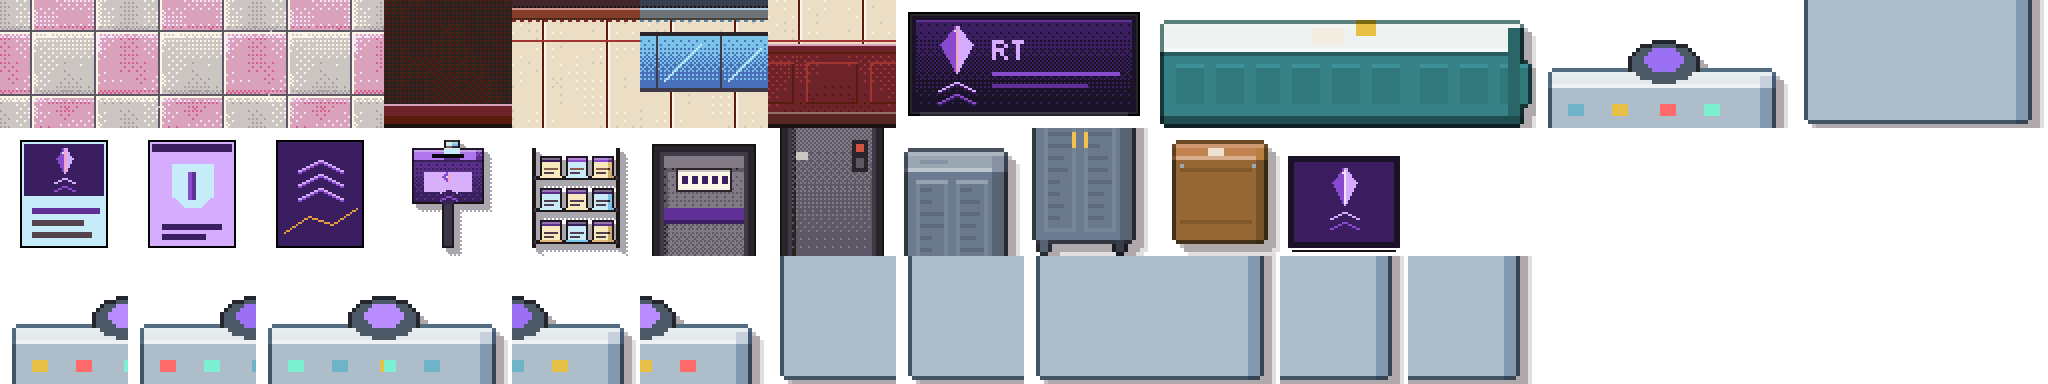
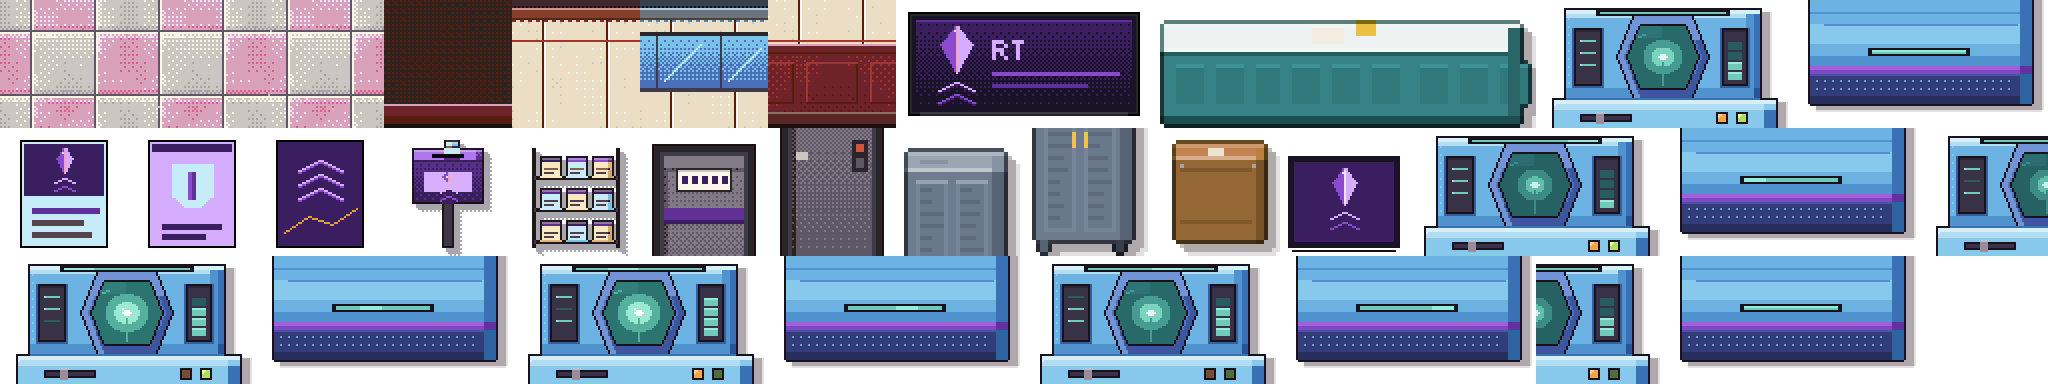
Kilumen: original heal-centre crystal polisher (7476-7479) redrawn at v2 quality + lively status lights (6 frames, staggered blinks, chase, core pulse) + teal night glow; collision unchanged

diff --git a/kilumen/src/overworld/ixlight.js b/kilumen/src/overworld/ixlight.js
@@ -33,7 +33,8 @@ const B4 = [[0, 8, 2, 10], [12, 4, 14, 6], [3, 11, 1, 9], [15, 7, 13, 5]];
 const SRC = [ // [name test, colour, radius px, glow strength]
   [/tv_back|(^|_)tv($|_)|crt/, [70, 146, 206], 112, 0.9], [/stove|fireplace|forge|oven/, [252, 196, 96], 100, 0.45],
   [/lamp|lantern|candle|side3|radio|heal_machine|crystal_display|specimen|server/, [252, 214, 140], 110, 0.4],
-  [/heal_machine|counter_heal|terminal|(^|_)pc($|_)|desk_pc|crystal_polisher|timetable|club_dj_desk|club_stage_back|club_counter_case|cooler/, [150, 210, 236], 96, 0.35],
+  [/crystal_polisher/, [112, 202, 184], 104, 0.45], // old crystal polisher (old_machine_v1): teal core + status lamps glow at night
+  [/heal_machine|counter_heal|terminal|(^|_)pc($|_)|desk_pc|timetable|club_dj_desk|club_stage_back|club_counter_case|cooler/, [150, 210, 236], 96, 0.35],
   [/^window|_window|window_|wall_upper_win/, [168, 196, 248], 84, 0.34, true]]; // v0.2.41: windows = cool moonlight (Gary: pools read warm), floor stays dim
 export function isPublicInterior(name) { return PUBLIC_RE.test(name || ''); }
 function buildShade(v, phase, indoorFn) {

diff --git a/kilumen/tools/furniture_v2/old_machine_v1.py b/kilumen/tools/furniture_v2/old_machine_v1.py
@@ -1,0 +1,183 @@
+"""Old crystal polisher v1 (Gary, Oct 29 2026): the ORIGINAL heal-centre machine (i_crystal_polisher, ids 7476/7477 top,
+7478/7479 bottom, interiors_new i_brand_v3.png cells 12..15; heal_* maps at (5,1)) redrawn at the furniture-v2 level - same
+silhouette and design (stepped top unit, hex crystal window, side screens, slider, orange/green lamps, slot, violet trim
+stripe, navy plinth), v2 outline, stepped shading (no dither), v2 palette and drop shadow - with lively lights:
+6 frames (frame 0 = the tile's own cells, 1..5 = free sheet cells) driven by a long non-uniform sequence: staggered
+orange/green blinks, an occasional teal chase along the top bar and the slot, a level meter in the right screen and a soft
+pulse in the crystal core. Night glow comes from ixlight's crystal_polisher light source. Collision is NOT touched.
+Run after build_v3_hybrid.py:  python3 tools/furniture_v2/old_machine_v1.py
+"""
+import json, os
+from PIL import Image
+
+ROOT = os.path.dirname(os.path.dirname(os.path.dirname(os.path.abspath(__file__))))
+OW = os.path.join(ROOT, 'art/world/overworld')
+O = (24, 18, 30, 255)
+SH, SH2 = (40, 24, 30, 95), (40, 24, 30, 35)
+T = (0, 0, 0, 0)
+# v2 blue body ramp (old hues, stepped)
+B = dict(hi=(214, 240, 250, 255), l0=(176, 222, 244, 255), l1=(136, 200, 236, 255), m=(108, 178, 226, 255),
+         d1=(80, 146, 206, 255), d2=(58, 112, 180, 255), d3=(44, 82, 146, 255))
+N = dict(n0=(70, 86, 150, 255), n1=(50, 62, 122, 255), n2=(38, 46, 96, 255), dot=(112, 160, 216, 255), side=(46, 98, 160, 255))
+HEX = dict(f0=(112, 148, 214, 255), f1=(82, 116, 190, 255), f2=(60, 86, 158, 255))
+SCR = dict(bg=(56, 50, 70, 255), bg2=(44, 38, 56, 255), fr=(52, 96, 160, 255))
+TEAL = dict(on=(150, 236, 214, 255), mid=(112, 202, 184, 255), off=(62, 132, 128, 255), dk=(40, 92, 96, 255))
+CORE = [  # crystal core pulse levels: (glass, ring, inner, centre)
+    ((38, 98, 100, 255), (60, 140, 132, 255), (100, 190, 172, 255), (200, 240, 236, 255)),
+    ((40, 106, 106, 255), (70, 156, 144, 255), (124, 212, 190, 255), (226, 250, 246, 255)),
+    ((44, 116, 112, 255), (86, 176, 158, 255), (156, 232, 210, 255), (250, 255, 255, 255))]
+ORA = ((236, 168, 72, 255), (255, 214, 130, 255), (120, 76, 44, 255))   # on, glint, off
+GRN = ((176, 220, 104, 255), (226, 250, 170, 255), (82, 108, 58, 255))
+VIO = ((160, 96, 222, 255), (128, 72, 196, 255), (96, 50, 160, 255))
+
+# frame states: core level, orange, green, chase segment (-1 none), meter level 0..4, left-screen line mask
+FR = [dict(core=1, o=1, g=1, ch=-1, me=2, ln=(1, 1, 1)),
+      dict(core=2, o=0, g=1, ch=0, me=3, ln=(1, 1, 0)),
+      dict(core=2, o=1, g=0, ch=1, me=4, ln=(1, 0, 1)),
+      dict(core=1, o=0, g=0, ch=2, me=3, ln=(0, 1, 1)),
+      dict(core=0, o=1, g=1, ch=3, me=1, ln=(1, 1, 1)),
+      dict(core=0, o=1, g=0, ch=-1, me=2, ln=(1, 0, 1))]
+# ~3.4 s loop at 140 ms: mostly calm blinking with uneven gaps, one chase pass (1-2-3) per loop, core breathes 0->1->2->1->0
+SEQ = [0, 0, 5, 5, 0, 4, 4, 0, 5, 0, 0, 4, 0, 1, 2, 3, 2, 1, 0, 5, 0, 4, 0, 0]
+FRAME_MS = 140
+
+
+class Cv:
+    def __init__(s, w=128, h=128): s.im = Image.new('RGBA', (w, h), T); s.px = s.im.load(); s.w, s.h = w, h
+    def p(s, x, y, c):
+        if 0 <= x < s.w and 0 <= y < s.h: s.px[x, y] = c
+    def rect(s, x0, y0, x1, y1, c):
+        for y in range(y0, y1 + 1):
+            for x in range(x0, x1 + 1): s.p(x, y, c)
+
+
+def shadow(cv, boxes, dx=4, dy=2):
+    m = set()
+    for x0, y0, x1, y1 in boxes:
+        for y in range(y0 + dy, y1 + dy + 1):
+            for x in range(x0 + dx, x1 + dx + 1): m.add((x, y))
+    for (x, y) in m: cv.p(x, y, SH)
+    for (x, y) in m:
+        for nx, ny in ((x + 1, y), (x, y + 1)):
+            if (nx, ny) not in m: cv.p(nx, ny, SH2)
+
+
+def frame_box(cv, x0, y0, x1, y1):
+    for x in range(x0, x1 + 1): cv.p(x, y0, O); cv.p(x, y1, O)
+    for y in range(y0, y1 + 1): cv.p(x0, y, O); cv.p(x1, y, O)
+
+
+def hex_rows(cx, cy, hw, hh, cut):
+    """Flat-top hexagon rows: dict y -> half width (pointy left/right)."""
+    r = {}
+    for y in range(cy - hh, cy + hh + 1):
+        d = abs(y - cy); r[y] = hw - max(0, d - (hh - cut)) if False else hw - round(d * cut / hh)
+    return r
+
+
+def machine(f):
+    s = FR[f]; cv = Cv()
+    shadow(cv, [(14, 4, 112, 49), (8, 49, 120, 116)])
+    # ---- top unit x14..112 y4..49
+    cv.rect(15, 5, 111, 49, B['m'])
+    cv.rect(15, 5, 111, 6, B['hi']); cv.rect(15, 7, 111, 8, B['l0']); cv.rect(15, 44, 111, 49, B['d1'])
+    cv.rect(105, 7, 111, 49, B['d1']); cv.rect(109, 7, 111, 49, B['d2']); cv.rect(109, 44, 111, 49, B['d3'])
+    for y in range(9, 44, 4): cv.p(16, y, B['l1'])
+    # top teal bar (chase)
+    cv.rect(30, 5, 96, 7, O); cv.rect(32, 6, 94, 6, TEAL['mid'])
+    if s['ch'] >= 0:
+        a = 32 + s['ch'] * 16; cv.rect(a, 6, a + 14, 6, TEAL['on'])
+    # side screens
+    cv.rect(18, 14, 33, 43, SCR['fr']); cv.rect(20, 15, 31, 41, SCR['bg']); cv.rect(20, 15, 31, 15, SCR['bg2'])
+    frame_box(cv, 19, 14, 32, 42)
+    for k, y in enumerate((20, 26, 32)):
+        cv.rect(22, y, 29, y, TEAL['mid'] if s['ln'][k] else TEAL['dk'])
+        if s['ln'][k]: cv.p(22, y, TEAL['on'])
+    cv.rect(92, 14, 106, 43, SCR['fr']); cv.rect(94, 15, 104, 41, SCR['bg']); cv.rect(94, 15, 104, 15, SCR['bg2'])
+    frame_box(cv, 93, 14, 105, 42)
+    for k in range(4):  # meter bars bottom-up
+        y = 39 - k * 5; on = k < s['me']
+        cv.rect(96, y - 3, 102, y, TEAL['mid'] if on else TEAL['dk'])
+        if on: cv.rect(96, y - 3, 102, y - 3, TEAL['on'])
+    # hex crystal window
+    cx, cy = 63, 28
+    outer = hex_rows(cx, cy, 22, 20, 8); inner = hex_rows(cx, cy, 17, 15, 6)
+    for y, hw in outer.items():
+        cv.p(cx - hw - 1, y, O); cv.p(cx + hw + 1, y, O)
+        for x in range(cx - hw, cx + hw + 1):
+            cv.p(x, y, HEX['f0'] if y < cy - 8 or x < cx - hw + 3 else HEX['f2'] if (y > cy + 8 or x > cx + hw - 3) else HEX['f1'])
+    for x in range(cx - outer[cy - 20], cx + outer[cy - 20] + 1): cv.p(x, cy - 21, O); cv.p(x, cy + 21, O)
+    c = CORE[s['core']]
+    for y, hw in inner.items():
+        cv.p(cx - hw - 1, y, O); cv.p(cx + hw + 1, y, O)
+        for x in range(cx - hw, cx + hw + 1):
+            d = ((x - cx) ** 2 + ((y - cy) * 1.15) ** 2) ** .5
+            col = c[0]
+            if y < cy - 9 and x < cx: col = (c[0][0] + 6, c[0][1] + 10, c[0][2] + 10, 255)
+            if d < 9 + s['core']: col = c[1]
+            if d < 5 + s['core'] * .6: col = c[2]
+            if d < 2.2: col = c[3]
+            cv.p(x, y, col)
+    for x in range(cx - inner[cy - 15], cx + inner[cy - 15] + 1): cv.p(x, cy - 16, O); cv.p(x, cy + 16, O)
+    for y in range(cy + 3, cy + 15): cv.p(cx, y, c[1])   # stem line (old design)
+    cv.p(cx - 1, cy - 1, c[3]); cv.p(cx - 2, cy - 2, (255, 255, 255, 255)) if s['core'] == 2 else None
+    for k in range(4): cv.p(cx - 12 + k, cy - 10 - k // 2, c[1])  # glass glint
+    frame_box(cv, 14, 4, 112, 49)
+    # ---- base x8..120 y49..116
+    cv.rect(9, 50, 119, 115, B['l1'])
+    cv.rect(9, 50, 119, 51, B['hi']); cv.rect(9, 52, 119, 54, B['l0'])
+    cv.rect(9, 55, 119, 63, B['l1']); cv.rect(9, 64, 119, 69, B['m']); cv.rect(9, 70, 119, 70, B['d1'])
+    cv.rect(9, 71, 119, 75, B['m']); cv.rect(16, 76, 112, 76, B['d1'])
+    cv.rect(9, 77, 119, 85, B['l1']); cv.rect(9, 86, 119, 96, B['m']); cv.rect(9, 92, 119, 96, B['d1'])
+    cv.rect(114, 55, 119, 96, B['d2']); cv.rect(114, 52, 119, 54, B['l1'])
+    cv.rect(9, 97, 119, 98, VIO[0]); cv.rect(9, 99, 119, 100, VIO[1]); cv.rect(114, 97, 119, 100, VIO[2])
+    cv.rect(9, 101, 119, 115, N['n1']); cv.rect(9, 101, 119, 101, N['n0']); cv.rect(9, 112, 119, 115, N['n2'])
+    cv.rect(114, 101, 119, 115, N['side'])
+    for y in (104, 108):
+        for x in range(12, 112, 4): cv.p(x, y, N['dot'])
+    for y in (50, 51, 52): cv.p(9 if y > 50 else 10, y, B['hi'])
+    # slider
+    cv.rect(22, 57, 47, 60, O); cv.rect(23, 58, 46, 59, SCR['bg']); cv.rect(30, 56, 33, 61, (150, 142, 154, 255)); cv.rect(30, 56, 33, 56, (196, 190, 200, 255))
+    frame_box(cv, 29, 56, 34, 61) if False else None
+    # lamps
+    for (x0, col, on) in ((90, ORA, s['o']), (100, GRN, s['g'])):
+        cv.rect(x0, 56, x0 + 5, 61, O); cv.rect(x0 + 1, 57, x0 + 4, 60, col[0] if on else col[2])
+        if on: cv.p(x0 + 1, 57, col[1]); cv.p(x0 + 2, 57, col[1]); cv.p(x0 + 1, 58, col[1])
+    # slot (chase, offset from the top bar for a running feel)
+    cv.rect(38, 88, 88, 91, O); cv.rect(40, 89, 86, 90, TEAL['mid']); cv.rect(40, 89, 86, 89, TEAL['on'] if s['ch'] < 0 else TEAL['mid'])
+    if s['ch'] >= 0:
+        a = 40 + ((s['ch'] + 1) % 4) * 12; cv.rect(a, 89, min(86, a + 10), 90, TEAL['on'])
+    frame_box(cv, 8, 49, 120, 116)
+    cv.rect(14, 49, 112, 49, O)
+    for x in range(15, 112): cv.p(x, 49, B['d2'])  # seam between units (old darker lip)
+    cv.p(8, 116, T); cv.p(120, 116, SH)
+    return cv.im
+
+
+CELLS = [(12, 13, 14, 15), (32, 33, 34, 35), (36, 37, 38, 39), (40, 41, 42, 43), (27, 28, 29, 30), (31, 44, 45, 46)]
+IDS = (7476, 7477, 7478, 7479)
+
+
+def put(imgs):
+    for n in (1, 2, 3):
+        path = os.path.join(OW, f'interiors_new/tiles_{n}x/i_brand_v3.png'); sh = Image.open(path).convert('RGBA'); C = 64 * n
+        for cells, im in zip(CELLS, imgs):
+            big = im.resize((128 * n, 128 * n), Image.NEAREST)
+            for k, i in enumerate(cells):
+                part = big.crop((k % 2 * C, k // 2 * C, k % 2 * C + C, k // 2 * C + C)); x, y = i % 16 * C, i // 16 * C
+                sh.paste(Image.new('RGBA', (C, C), T), (x, y)); sh.paste(part, (x, y))
+        sh.save(path, optimize=True)
+
+
+def main():
+    imgs = [machine(f) for f in range(len(FR))]; put(imgs)
+    ap = os.path.join(OW, 'furniture_v3_anim.json'); anim = json.load(open(ap))
+    for k, tid in enumerate(IDS):
+        anim['anim'][str(tid)] = {'frames': [CELLS[f][k] for f in SEQ], 'frame_ms': FRAME_MS}
+    if 'old_machine_v1' not in anim['note']: anim['note'] += '; old_machine_v1: 7476-7479 original crystal polisher + lively lights (tools/furniture_v2/old_machine_v1.py)'
+    json.dump(anim, open(ap, 'w'), indent=1)
+    return imgs
+
+
+if __name__ == '__main__':
+    imgs = main(); print('old machine v1 written')
